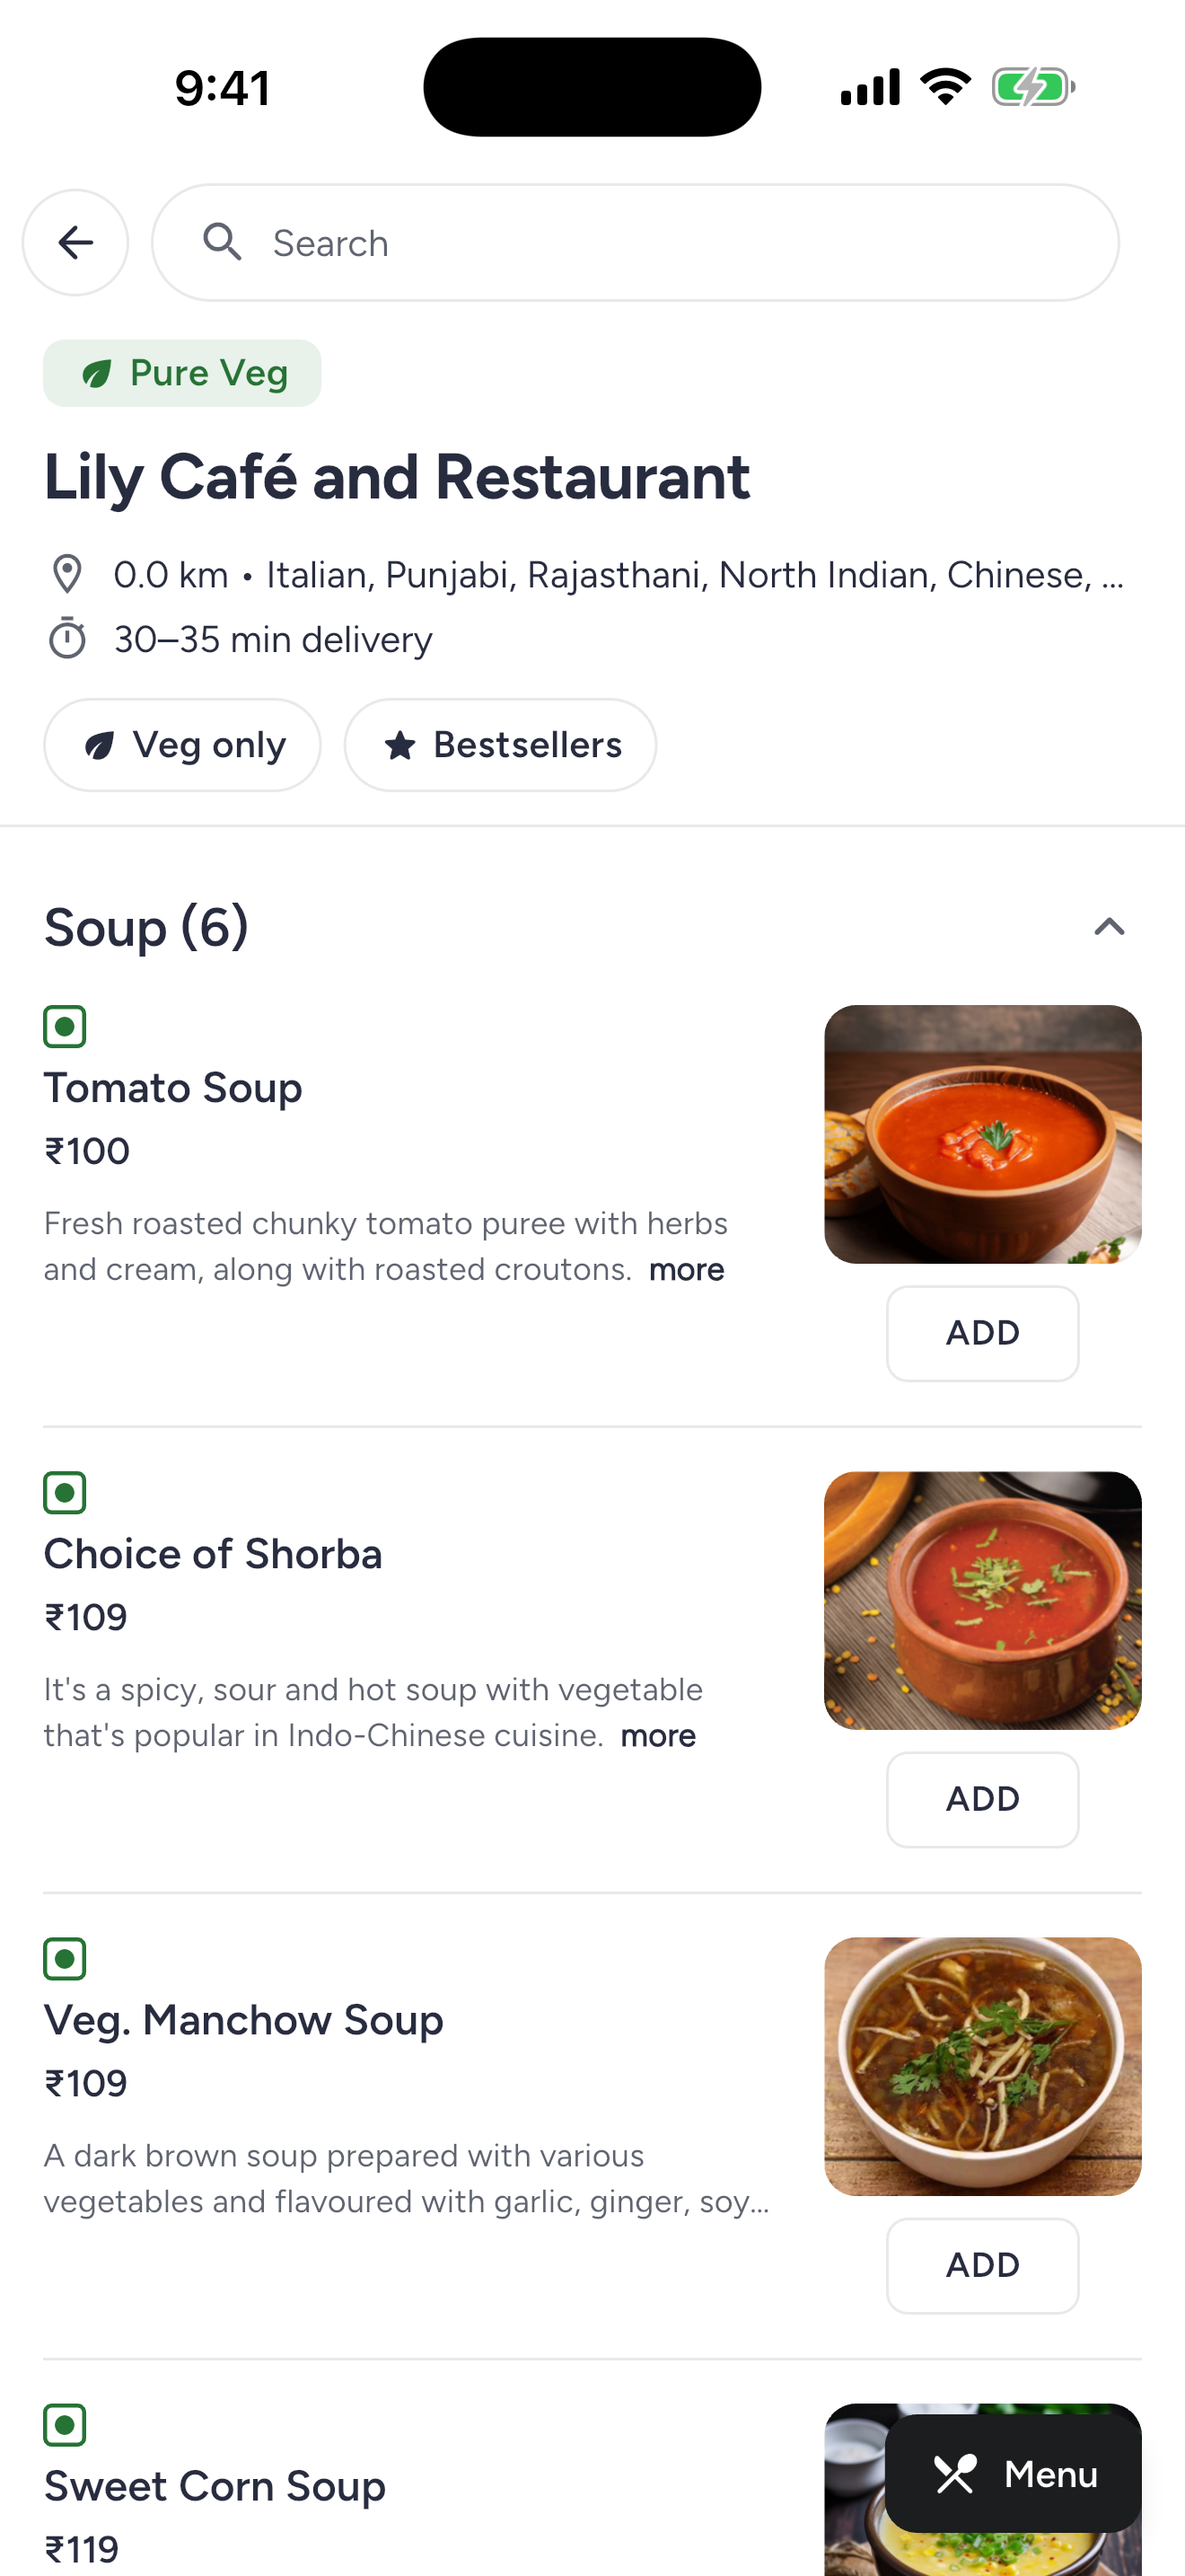
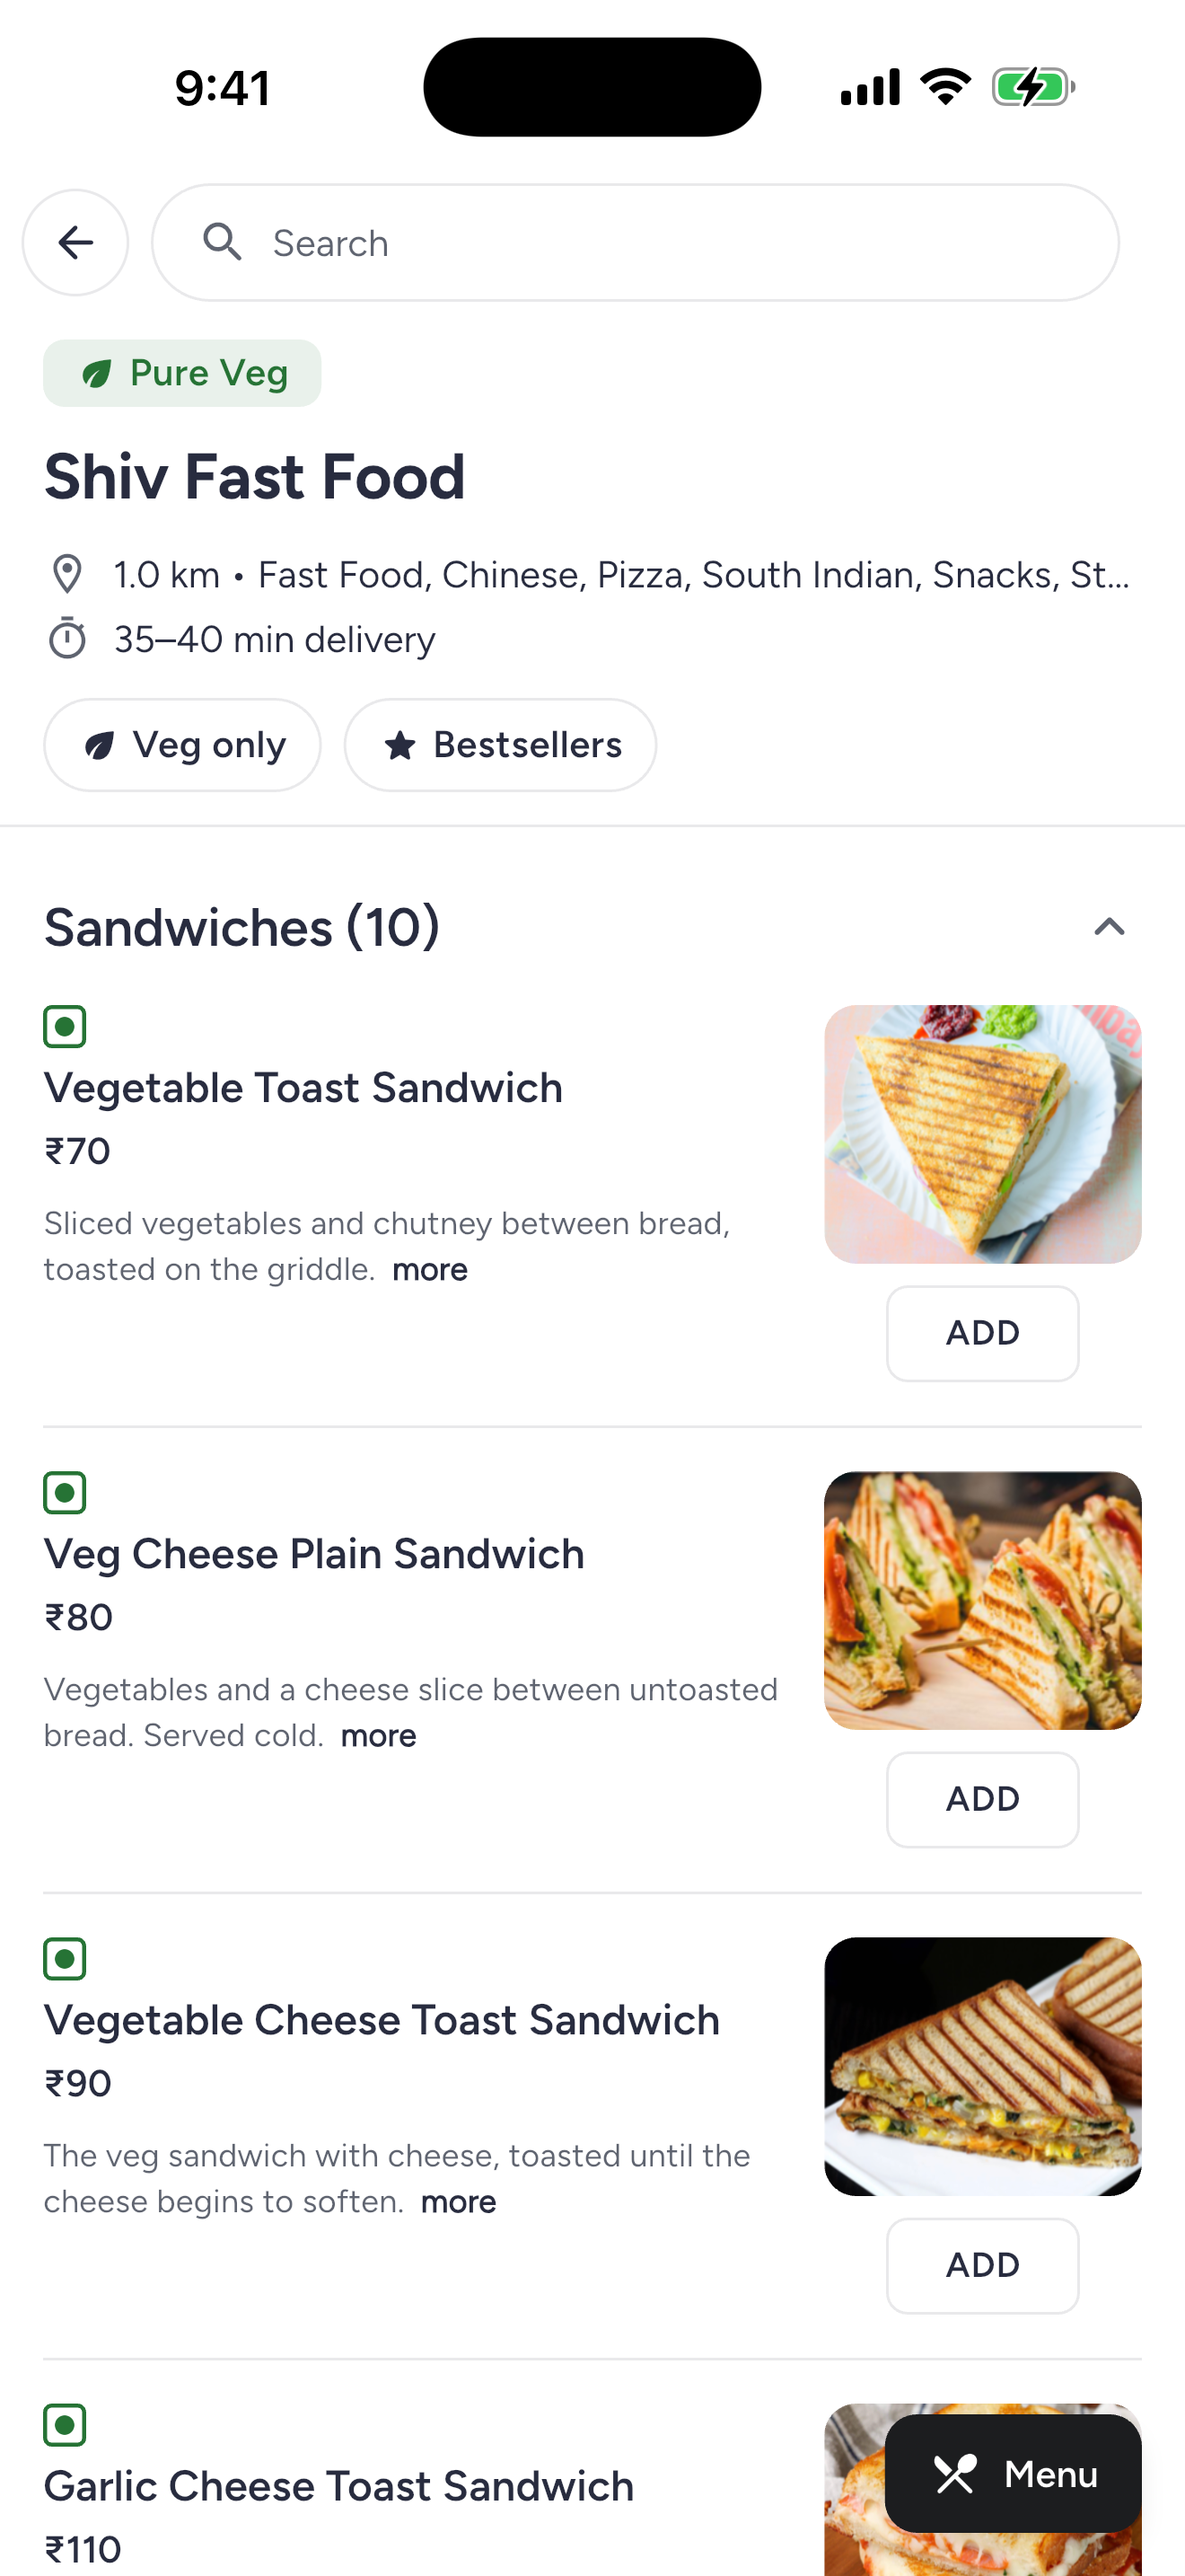
chore(store): re-shoot the menu, and the 0.0 km that was never a bug
The old 02 showed Lily Cafe at "0.0 km", and the README filed that under things
to fix. It is not a defect: both render sites already omit an unknown distance
and geo_distance.dart exists so that unknown never collapses into zero, all of
it landed 2026-08-11 -- a month before the capture. What produced 0.0 was the
seeded screenshot address carrying coordinates sitting on the restaurant's own.

Seeded a kilometre away and the same screen reads "1.0 km". The replacement is
Shiv Fast Food: Pure Veg, 1.0 km, 35-40 min, ten sandwiches between 70 and 110
rupees, each with its own photo and description. Submittable as it stands.

Two more of the README's claims did not survive being looked at. No capture
shows the 0.0 star badge it warned about, and gift prices are no longer all the
same placeholder. What does survive is the real one: 01 and 06 still lead with
rupee-one dishes from Sadri Test Restaurant, and hiding that one row fixes both.

05 was re-shot and came back no better, so the original stands.

03 is still the 09-12 capture because the Accessibility grant that lets a script
tap the simulator lapsed part way through the run -- recorded in the README with
the rest of the recipe, including that simctl has no notifications service and
so cannot dismiss the push alert that blocks a cold launch.

diff --git a/store/ios/screenshots/README.md b/store/ios/screenshots/README.md
@@ -2,6 +2,7 @@
 
 Captured 2026-09-12 from `main` @ 07dd444, iPhone 17 Pro Max simulator (iOS 26.5),
 `xcrun simctl io … screenshot`, status bar overridden to 9:41.
+**`02` was re-shot 2026-10-19** from the build-31 simulator binary — see below.
 
 **Size: 1320×2868 = 6.9" (`APP_IPHONE_69`).** Note `IOS_APP_STORE_LISTING.md` §6 says
 6.7"; that is stale. The live ASC listing currently holds a *6.5"* set
@@ -10,23 +11,54 @@ Captured 2026-09-12 from `main` @ 07dd444, iPhone 17 Pro Max simulator (iOS 26.5
 
 Numbering follows `IOS_APP_STORE_LISTING.md` §6.
 
-| # | File | Notes |
-|---|---|---|
-| 1 | `01-feed-sadri.png` | Feed, address set to Bus Stand Road, Sadri |
-| 2 | `02-restaurant-menu.png` | Lily Café — menu. No photo strip exists on the detail page |
-| 3 | `03-cart-bill.png` | Cart + Bill Details breakdown |
-| 4 | — | **Not captured.** Live tracking needs an order in flight |
-| 5 | `05-gifts.png` | Gifts tab |
-| 6 | `06-veg-mode.png` | Veg Mode on, Pure Veg chip active |
+| # | File | State | Notes |
+|---|---|---|---|
+| 1 | `01-feed-sadri.png` | ❌ blocked | Feed, Bus Stand Road, Sadri. Top recommendations are the ₹1 test dishes |
+| 2 | `02-restaurant-menu.png` | ✅ **re-shot 10-19** | **Shiv Fast Food** — Pure Veg, **1.0 km**, 35–40 min, dishes ₹70–₹110 with real photos and descriptions |
+| 3 | `03-cart-bill.png` | ⚠ old | Cart + Bill Details. Still the 09-12 capture |
+| 4 | — | — | **Not captured.** Live tracking needs an order in flight |
+| 5 | `05-gifts.png` | ⚠ old | Gifts tab. Re-shot on 10-19 and the result was no better, so the original stands |
+| 6 | `06-veg-mode.png` | ❌ blocked | Veg Mode on. Same ₹1 test dishes as `01` |
 
-## ⚠ Not submittable as-is
+## What is actually blocking, as of 2026-10-19
 
-These are captures for review, not final marketing assets:
+**One row of production data blocks `01` and `06`.** The top recommendations are
+₹1 dishes from **"Sadri Test Restaurant"**, and Apple rejects screenshots that
+misrepresent the app. Hiding that restaurant in the admin panel fixes both shots
+and nothing else needs to change. The owner is doing this.
 
-- The Sadri catalogue's top recommendations are **₹1 dishes from "Sadri Test
-  Restaurant"**. Apple rejects screenshots that misrepresent the app.
-- Restaurant cards show **0.0 km** and a **0.0 ★** rating badge.
-- Every gift is the same **₹999 / ₹1249 / 20% OFF** placeholder (P6).
+**The "0.0 km" in the old `02` was never a bug, and must not be "fixed" in code.**
+Both render sites already omit an unknown distance (`restaurant_card.dart:141`,
+`menu_header.dart:200`) and `geo_distance.dart` exists precisely so unknown never
+collapses into zero — all of it landed 2026-08-11, a month *before* those
+captures. The real cause was the seeded screenshot address carrying coordinates
+that sat on top of the restaurant's own. Seeded 1 km away on 10-19, the same
+screen renders **"1.0 km"**. The old note below claimed a **0.0 ★** badge too;
+it does not appear in any of these captures.
 
-Re-shoot against the demo account's real catalogue before these go into App Store
-Connect.
+**Gift prices are partly real now.** The old note said every gift was the same
+₹999/₹1249 placeholder; the 10-19 capture shows at least one at ₹499/₹624. They
+remain largely obscured by the floating nav bar, which is why `05` was not
+replaced.
+
+## Re-shooting: the recipe that worked
+
+`IOS_RELEASE_RUNBOOK.md` §A4 has the seeding mechanics. Three things it does not
+say, learned on 10-19:
+
+- **Seed `line1` *without* the town.** The header renders `"<line1>, <city>"`, so
+  `line1: "Bus Stand Road, Sadri"` produces **"Bus Stand Road, Sadri, Sadri"**.
+- **Seed coordinates a realistic distance from the restaurants**, or the distance
+  line reads 0.0 km and looks like a bug. `25.1838, 73.4425` gives 1.0 km to Shiv
+  Fast Food. Leave `service_area_id` null and let the app resolve the town — it
+  did, to Sadri, 9 restaurants.
+- **The hero banner rotates every launch** (50% off, ₹150 off, 60% off, Big Brand
+  Heist…). Whichever is on screen when you shoot is what you get; there is no way
+  to pin one.
+
+⚠ **Driving the simulator needs Accessibility permission**, and only for taps —
+`xcrun simctl` cannot tap, and `simctl privacy` has **no `notifications` service**,
+so the push-permission alert on first launch must be dismissed by hand or by a
+synthesised click. Grant the terminal Accessibility under System Settings →
+Privacy & Security, or the capture run stops at the first alert. That grant
+lapsed mid-run on 10-19, which is why `03` is still the old capture.
